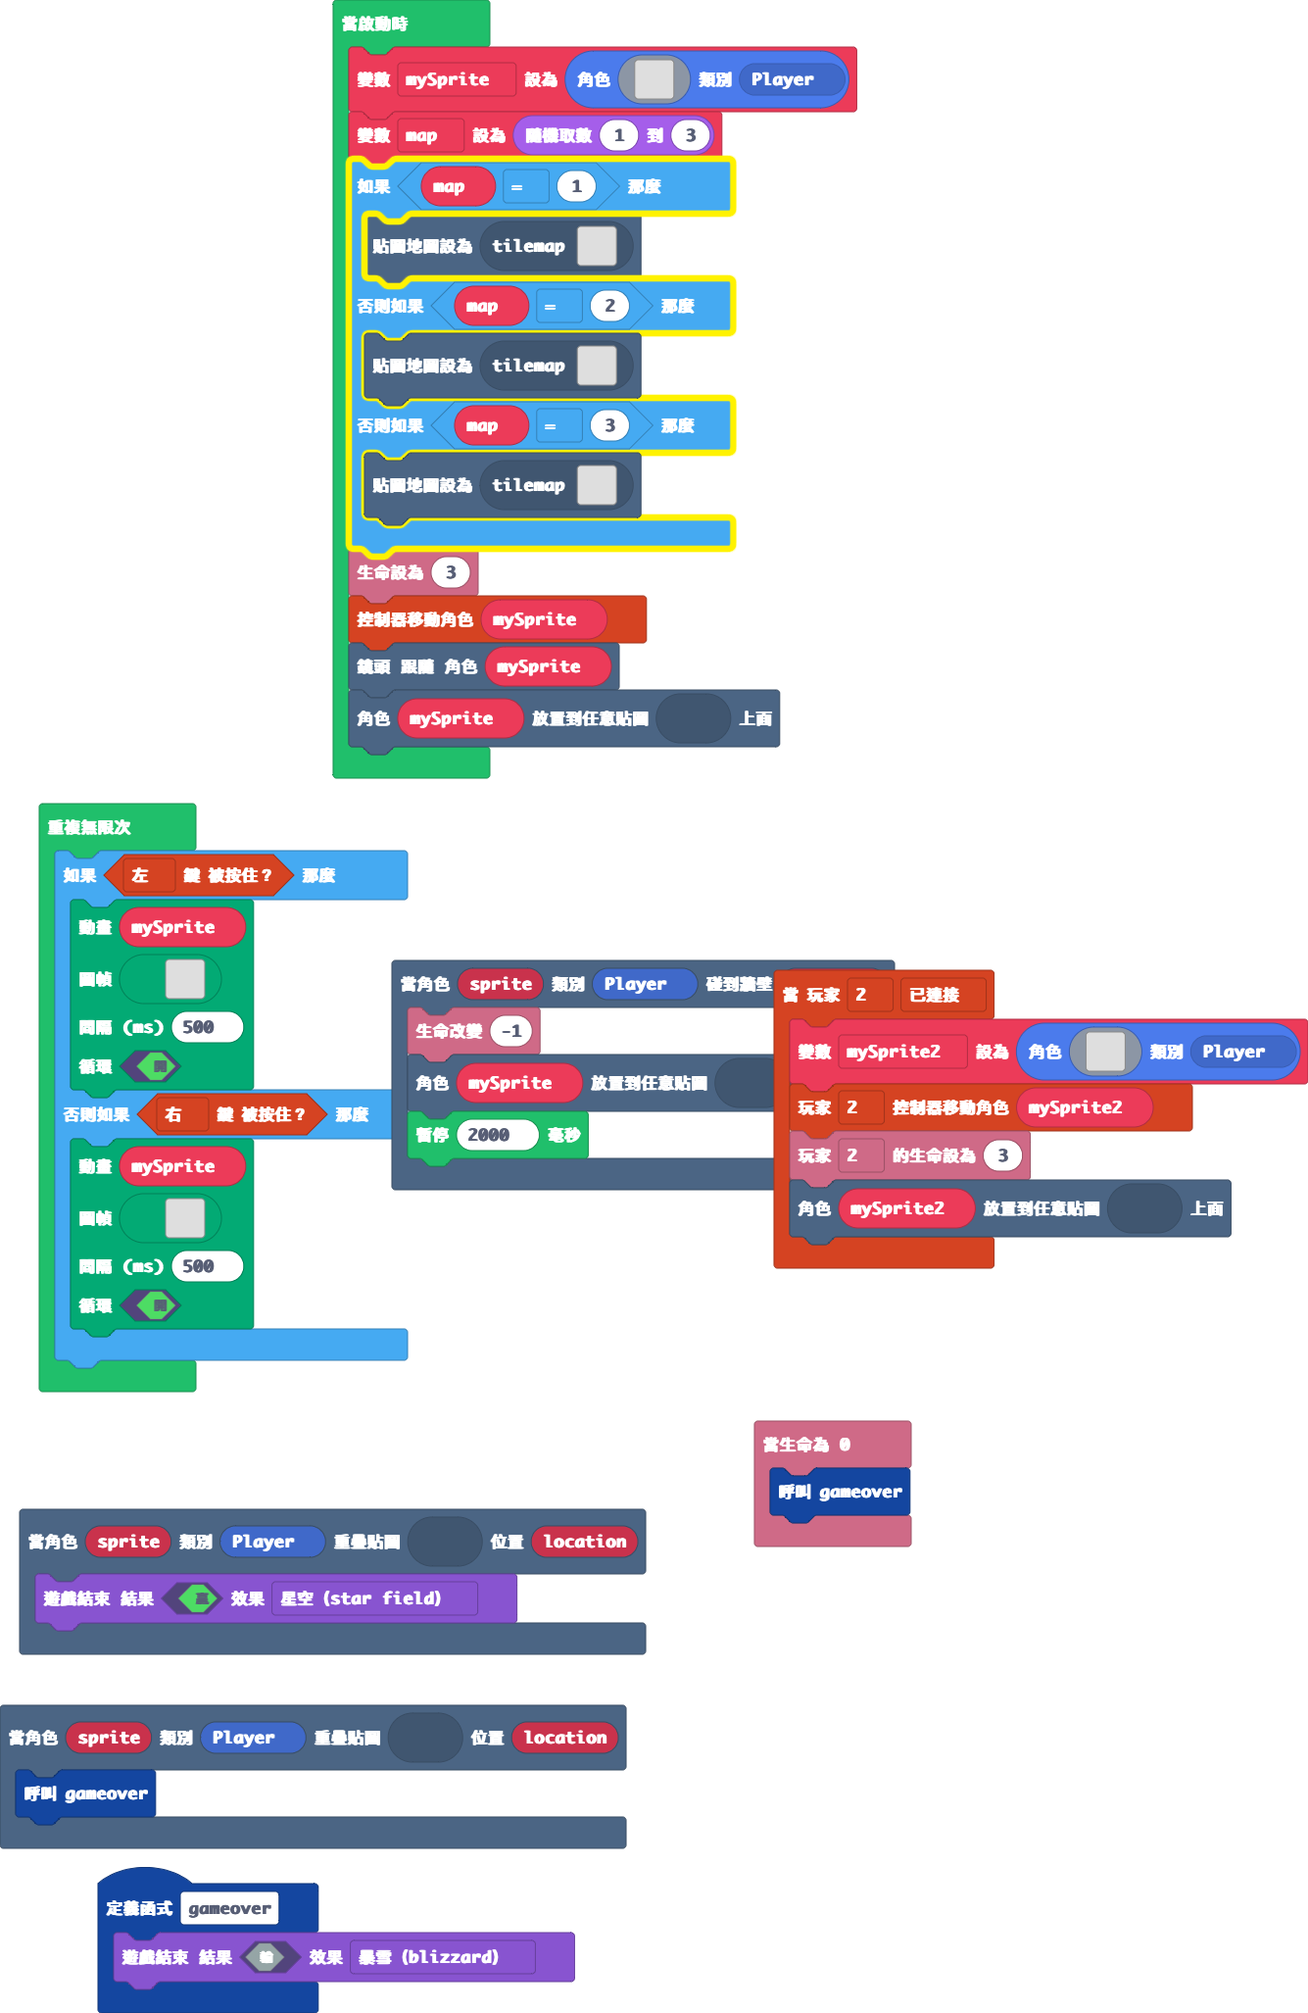
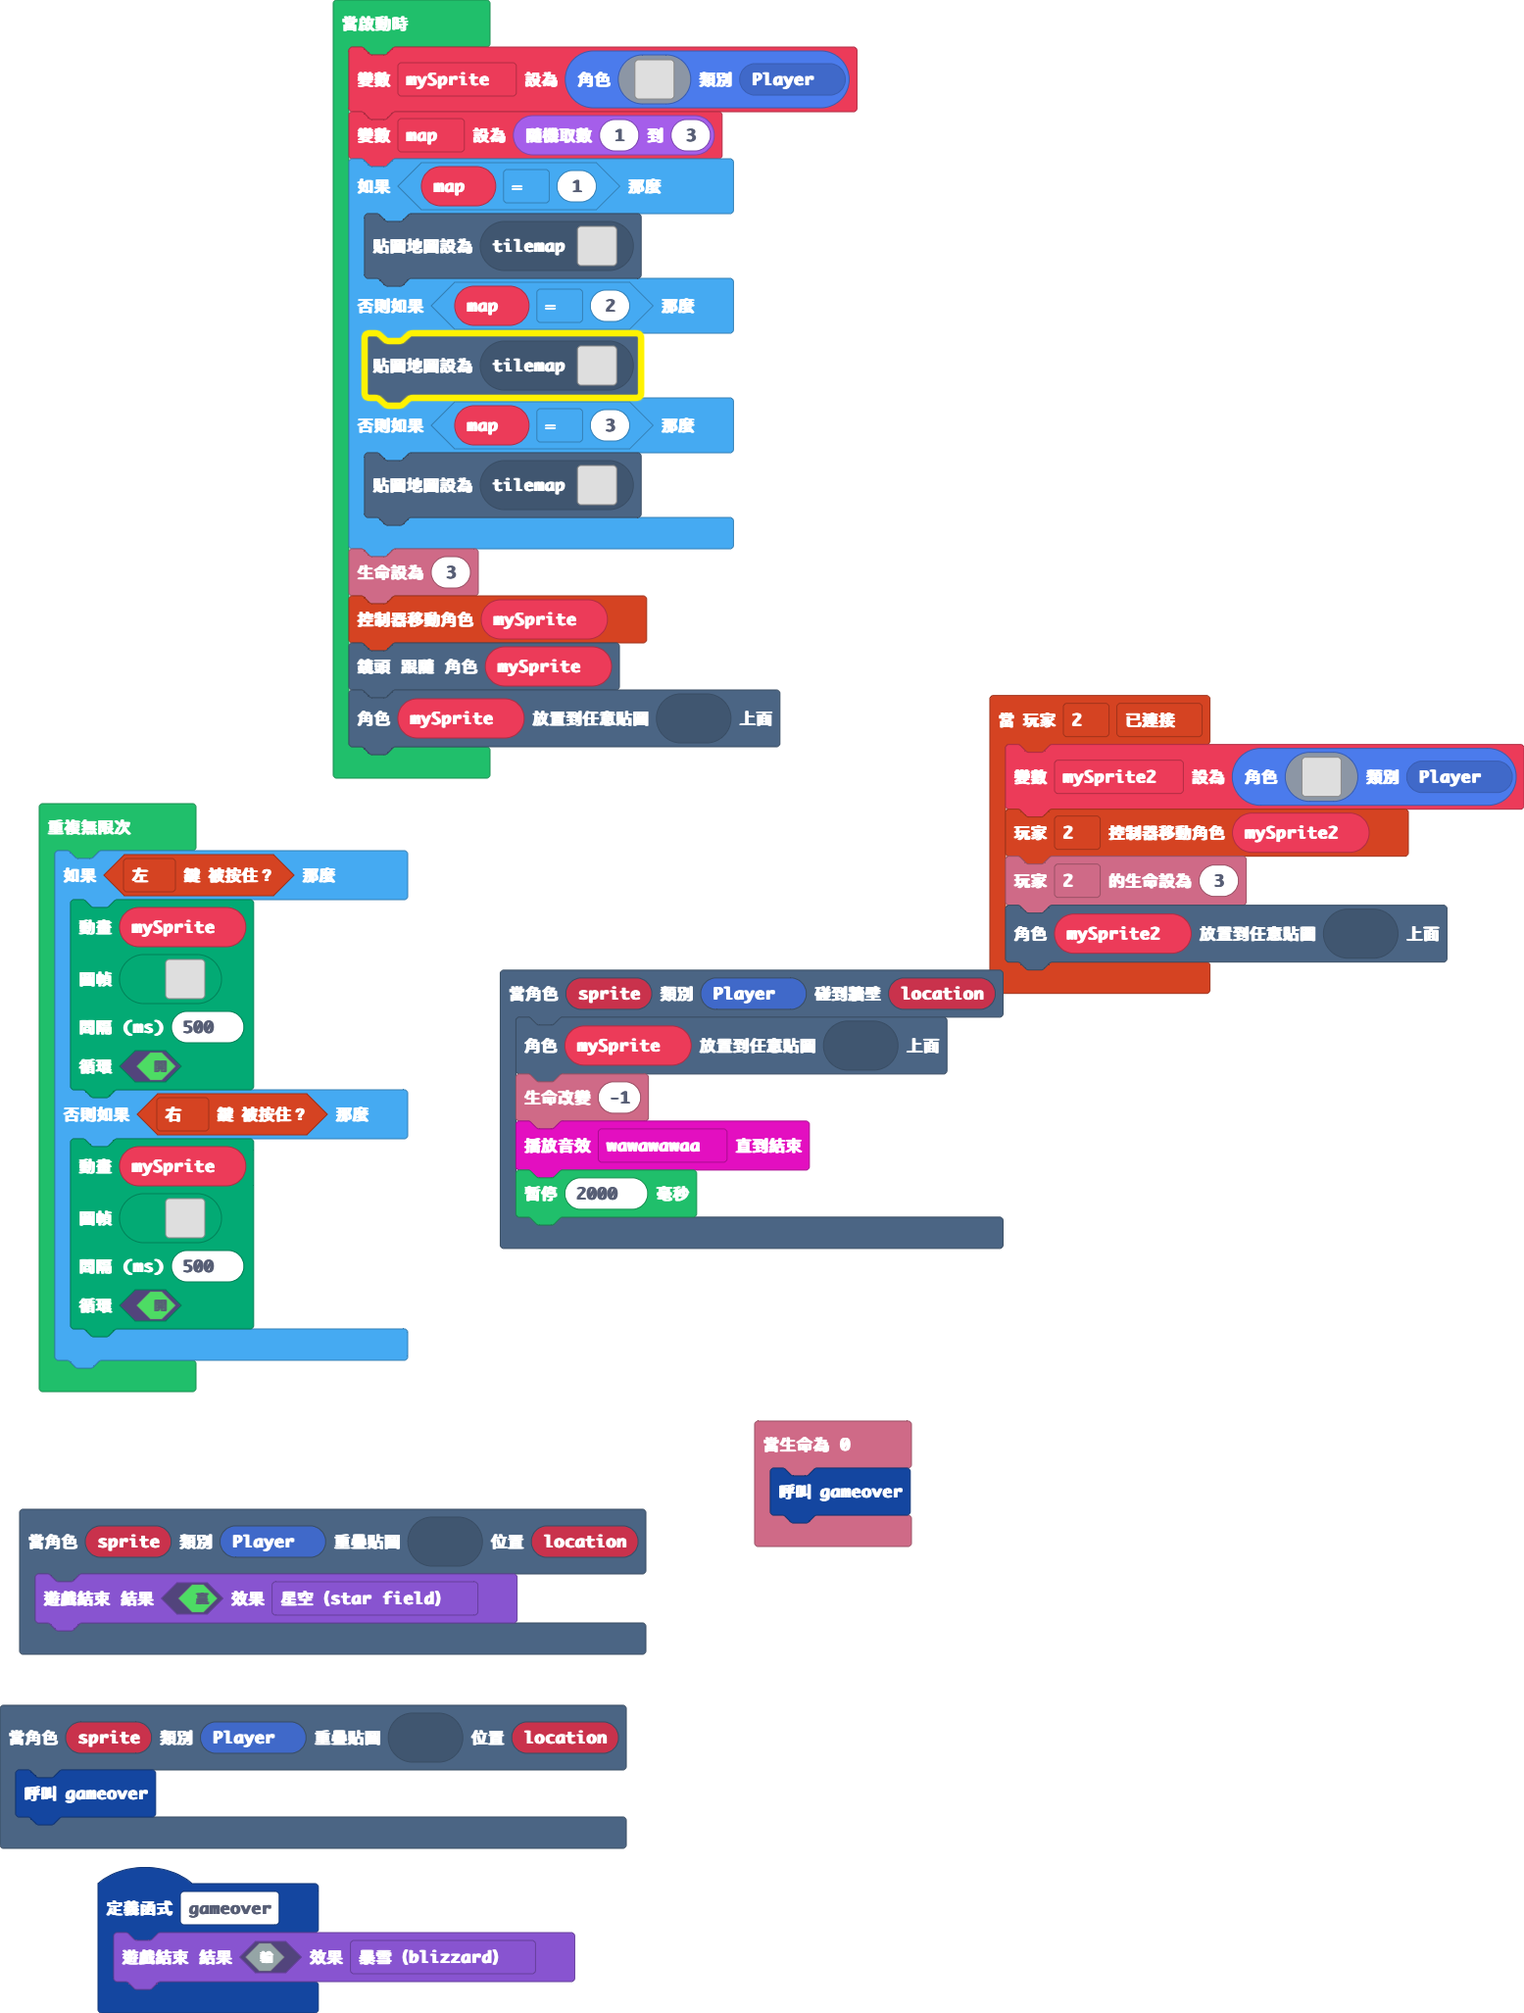
更新 main.blocks, main.ts, tilemap.g.jres, tilemap.g.ts

Changed region(s): [[0.0, 0.0, 1.0, 0.7167], [0.0, 0.6855, 0.7064, 1.0], [0.2457, 0.6543, 0.3071, 0.6855]]

diff --git a/tilemap.g.ts b/tilemap.g.ts
@@ -259,7 +259,7 @@ namespace myTiles {
 22222222222222222222222222222222
 `, [myTiles.transparency16,sprites.builtin.forestTiles0,myTiles.tile1,myTiles.tile3,myTiles.tile4,myTiles.tile5], TileScale.Sixteen);
             case "層級11":
-            case "層級11":return tiles.createTilemap(hex`4000400005050505050505050505050505050505050505050505050505050505050505050505050505050505050505050505050505050505050505050505050505050505050202020202020202020202020202020202020202020202020202020202020202020202020204020202020202020202020202020202020202020202020202050502020202020202020202020202020202020202020202020202020202020202020202020202040202020202020202020202020202020202020202020202020505020202020202020202020202020202020202020202020202020202020202020202020202020402020202020202020202020202020202020202020202020205050505050505050505050505050505050202020205050505050505050505050505050505050505050502020202020202020202020202020202020202020202050502020202020202020202020202020502020202050202020202020202020202020202020202020202020202020202020202020202020202020202020202020505020202020202020202020202020205020202020502020202020202020202020202020202020202020202020202020202020202020202020202020202020205050202020202020202020202020202050202020205020202020202020202020202020202020202020202020202020202020202020202020202020202020202050502020202020202020202020202020502020202050202020202020202020202020202020202020202020202020202020202020202020202020202020202020505020202020202020202020202020205020202020502020202020202020202020202020202020202020202020202020202020202020202020202020202020205050202020202020202020202020202050202020205020202020202020202020202020202020202020202020202020505050202020202020202020202020202050502020202020202020202020202020502020202050202020202020202020505050505050505050505050505050505020205050505050505050505020202020505020202020202020202020202020205020202020505050505050505050502020202020202020202020202020202020202020202020202020202050202020205050202020202020202020202020202020101010102020202020202020202020202020202020202020202020202020202020202020202020202020502020202050502020202020202020202020202020201010101020202020202020202020202020202020202020202020202020202020202020202020202020205020202020505020202020202020202020202020202010101010202020202020202020202020202020202020202020202020202020202020202020202020202050202020205050202020202020202020202020202020101010102020202020202020202020202020202020202020202020202020202020202020202050505050502020202050505050505050505050505050505050502020202050505050505050505050505050505050505050505050505050505050505050505050502020205050202020505020202020202020202020202020202050202020502020202020202020202020202020202020202020202020202020202020202020202020202020505050205050202020202020202020202020202020502020205020202020202020202020202020202020202020202020202020202020202020202020202020202020202050502020202020202020202020202020205020202050202020202020202020202020202020202020202020202020202020202020202020202020202020202020505020202020202020202020202020202020502020505020202020202020202020202020202020202020202020202020202020202020202020202020202020205050202020202020202020202020202020205020202050202020202020202020202020202020202020202020202020202020202020202020202020202020202050502020202020202020202020202020202050202020502020202020202020202020202020202020202020202020202020202020202020202020202020202020505020202020202020202020202020202020502020205050505050505050505050505050505050505050505050505050202020202020202020202020202020205050202020202020202020202020202020205020202050202020202020202020202020202020202020202020202020502020202020202020202020202020202050502020202020202020202020202020202050202020202050202020202020202020202020202020202020202020205020202020202020202020202020202020505020202020202020202020202020202020502020202050502020202020202020202020202020202020202020202050202020202020202020202020202020205050202020202020202020202020202020205020202020505020202020202020202020202020202020202020202020502020202020202020202020202020202050502020202020202020202020202020202050202020202050202020202020202020202020202020202020202020205020202020202020202020202020202020505020202020202020202020202020202020502020202020505020202020202020202020202020202020202020202050202020202020202020202020202020205050202020202020202020202020202020505020202020202050505050505050505050505050502020202020202020502020202020202020202020202020202050502020202020202020202020202020205020202020202020202020202020202020202020202050505050502020205020202020202020202020202020202020505020202020202020202020202020202050202020202020202020202020202020202020202020202020205050505050502020202020202050505050505050505050202020202020202020202020202020502020202020202020202020202020202020202020202020202020202050505050505050505050502020302020205050502020202020202020202020202020205020202020202020202020202020202020202020202020202020202020202020202020202020202020203020202020505020202020202020202020202020202050502020202020202020202020202020202020202020202020202020202020202020202020202020202030202020205050202020202020202020202020202020205020202020202020202020202020202020202020202020202020202020202020202020202020202020302020202050502020202020202020202020202020202050202020202020202020202020202020202020202020202020202020202020202020202020202020203020202020505020202020202020202020202020202020502020202020202020202020202020202020202020202020202020202020202020202020202020202030202020205050202020202020202020202020202020205020202020202020202020202020202020202020202020202020202020202020202020202020202020303020202050502020202020202020202020202020202050202020202020202020202020202020202020202020202020202020202020202020202020202020202030202020505020202020202020202020202020202020502020202020202020202020202020202020202020202020202020202020202020202020202020202020302020205050202020202020202020202020202020205020202020202020202020202020202020202020202020202020202020202020202020202020202020203020202050502020202020202020202020202020202050502020202020202020202020202020202020202020202020202020202020202020202020202020202030202020505020202020202020202020202020202020205020202020202020202020202020202020202020202020202020202020202020202020202020202020302020205050202020202020202020202020202020202050202020202020202020202020202020202020202020202020202020202020202020202020202020203020202050502020202020202020202020202020202020502020202020202020202020202020202020202020202020202020202020202020202020202020202030202020505020202020202020202020202020202020205020202020202020202020202020202020202020202020202020202020202020202020202020202020302020205050202020202020202020202020202020202020502020202020202020202020202020202020202020202020202020202020202020202020202020203020202050502020202020202020202020202020202020205020202020202020202020202020505050505050505050505050505050505050505050505020202030202020505020202020202020202020202020202020202050202020202020205050505050502020202020202020202020202020202020202020202020505050502020205050202020202020202020202020202020202020505050505050505020202020202020202020202020202020202020202020202020202020202020202020202050502020202020202020202020202020202020202020202020202020202020202020202020202020202020202020202020202020202020202020202020202020505020202020202020202020202020202020202020202020202020202020202020202020202020202020202020202020202020202020202020202020202020205050202020202020202020202020202020202020202020202020202020202020202020202020202020202020202020202020202020202020202020202020202050502020202020202020202020202020202020202020202020202020202020202020202020202020202020202020202020202020202020202020202020202020505020202020202020202020202020202020202020202020202020202020202020202020202020202020202020202020202020202020202020202020202020205050202020202020202020202020202020202020202020202020202020202020202020202020202020202020202020202020202020202020202020202020202050502020202020202020202020202020202020202020202020202020202020202020202020202020202020202020202020202020202020202020202020202020505020202020202020202020202020202020202020202020202020202020202020202020202020202020202020202020202020202020202020202020202020205050202020202020202020202020202020202020202020202020202020202020202020202020202020202020202020202020202020202020202020202020202050502020202020202020202020202020202020202020202020202020202020202020202020202020202020202020202020202020202020202020202020202020505050505050505050505050505050505050505050505050505050505050505050505050505050505050505050505050505050505050505050505050505050505`, img`
+            case "層級11":return tiles.createTilemap(hex`4000400005050505050505050505050505050505050505050505050505050505050505050505050505050505050505050505050505050505050505050505050505050505050202020202020202020202020202020202020202020202020202020202020202020202020204020202020202020202020202020202020202020202020202050502020202020202020202020202020202020202020202020202020202020202020202020202040202020202020202020202020202020202020202020202020505020202020202020202020202020202020202020202020202020202020202020202020202020402020202020202020202020202020202020202020202020205050505050505050505050505050505050202020205050505050505050505050505050505050505050502020202020202020202020202020202020202020202050502020202020202020202020202020502020202050202020202020202020202020202020202020202020202020202020202020202020202020202020202020505020202020202020202020202020205020202020502020202020202020202020202020202020202020202020202020202020202020202020202020202020205050202020202020202020202020202050202020205020202020202020202020202020202020202020202020202020202020202020202020202020202020202050502020202020202020202020202020502020202050202020202020202020202020202020202020202020202020202020202020202020202020202020202020505020202020202020202020202020205020202020502020202020202020202020202020202020202020202020202020202020202020202020202020202020205050202020202020202020202020202050202020205020202020202020202020202020202020202020202020202020505050202020202020202020202020202050502020202020202020202020202020502020202050202020202020202020505050505050505050505050505050505020205050505050505050505020202020505020202020202020202020202020205020202020505050505050505050502020202020202020202020202020202020202020202020202020202050202020205050202020202020202020202020202020202020202020202020202020202020202020202020202020202020202020202020202020202020202020502020202050502020202020202020202020202020202020202020202020202020202020202020202020202020202020202020202020202020202020202020205020202020505020202020202020202020202020202020101020202020202020202020202020202020202020202020202020202020202020202020202020202050202020205050202020202020202020202020202020202020202020202020202020202020202020202020202020202020202020202020202020202050505050502020202050505050505050505050505050505050502020202050505050505050505050505050505050505050505050505050505050505050505050502020205050202020505020202020202020202020202020202050202020502020202020202020202020202020202020202020202020202020202020202020202020202020505050205050202020202020202020202020202020502020205020202020202020202020202020202020202020202020202020202020202020202020202020202020202050502020202020202020202020202020205020202050202020202020202020202020202020202020202020202020202020202020202020202020202020202020505020202020202020202020202020202020502020505020202020202020202020202020202020202020202020202020202020202020202020202020202020205050202020202020202020202020202020205020202050202020202020202020202020202020202020202020202020202020202020202020202020202020202050502020202020202020202020202020202050202020502020202020202020202020202020202020202020202020202020202020202020202020202020202020505020202020202020202020202020202020502020205050505050505050505050505050505050505050505050505050202020202020202020202020202020205050202020202020202020202020202020205020202050202020202020202020202020202020202020202020202020502020202020202020202020202020202050502020202020202020202020202020202050202020202050202020202020202020202020202020202020202020205020202020202020202020202020202020505020202020202020202020202020202020502020202050502020202020202020202020202020202020202020202050202020202020202020202020202020205050202020202020202020202020202020205020202020505020202020202020202020202020202020202020202020502020202020202020202020202020202050502020202020202020202020202020202050202020202050202020202020202020202020202020202020202020205020202020202020202020202020202020505020202020202020202020202020202020502020202020505020202020202020202020202020202020202020202050202020202020202020202020202020205050202020202020202020202020202020505020202020202050505050505050505050505050502020202020202020502020202020202020202020202020202050502020202020202020202020202020205020202020202020202020202020202020202020202050505050502020205020202020202020202020202020202020505020202020202020202020202020202050202020202020202020202020202020202020202020202020205050505050502020202020202050505050505050505050202020202020202020202020202020502020202020202020202020202020202020202020202020202020202050505050505050505050502020302020205050502020202020202020202020202020205020202020202020202020202020202020202020202020202020202020202020202020202020202020203020202020505020202020202020202020202020202050502020202020202020202020202020202020202020202020202020202020202020202020202020202030202020205050202020202020202020202020202020205020202020202020202020202020202020202020202020202020202020202020202020202020202020302020202050502020202020202020202020202020202050202020202020202020202020202020202020202020202020202020202020202020202020202020203020202020505020202020202020202020202020202020502020202020202020202020202020202020202020202020202020202020202020202020202020202030202020205050202020202020202020202020202020205020202020202020202020202020202020202020202020202020202020202020202020202020202020303020202050502020202020202020202020202020202050202020202020202020202020202020202020202020202020202020202020202020202020202020202030202020505020202020202020202020202020202020502020202020202020202020202020202020202020202020202020202020202020202020202020202020302020205050202020202020202020202020202020205020202020202020202020202020202020202020202020202020202020202020202020202020202020203020202050502020202020202020202020202020202050502020202020202020202020202020202020202020202020202020202020202020202020202020202030202020505020202020202020202020202020202020205020202020202020202020202020202020202020202020202020202020202020202020202020202020302020205050202020202020202020202020202020202050202020202020202020202020202020202020202020202020202020202020202020202020202020203020202050502020202020202020202020202020202020502020202020202020202020202020202020202020202020202020202020202020202020202020202030202020505020202020202020202020202020202020205020202020202020202020202020202020202020202020202020202020202020202020202020202020302020205050202020202020202020202020202020202020502020202020202020202020202020202020202020202020202020202020202020202020202020203020202050502020202020202020202020202020202020205020202020202020202020202020505050505050505050505050505050505050505050505020202030202020505020202020202020202020202020202020202050202020202020205050505050502020202020202020202020202020202020202020202020505050502020205050202020202020202020202020202020202020505050505050505020202020202020202020202020202020202020202020202020202020202020202020202050502020202020202020202020202020202020202020202020202020202020202020202020202020202020202020202020202020202020202020202020202020505020202020202020202020202020202020202020202020202020202020202020202020202020202020202020202020202020202020202020202020202020205050202020202020202020202020202020202020202020202020202020202020202020202020202020202020202020202020202020202020202020202020202050502020202020202020202020202020202020202020202020202020202020202020202020202020202020202020202020202020202020202020202020202020505020202020202020202020202020202020202020202020202020202020202020202020202020202020202020202020202020202020202020202020202020205050202020202020202020202020202020202020202020202020202020202020202020202020202020202020202020202020202020202020202020202020202050502020202020202020202020202020202020202020202020202020202020202020202020202020202020202020202020202020202020202020202020202020505020202020202020202020202020202020202020202020202020202020202020202020202020202020202020202020202020202020202020202020202020205050202020202020202020202020202020202020202020202020202020202020202020202020202020202020202020202020202020202020202020202020202050502020202020202020202020202020202020202020202020202020202020202020202020202020202020202020202020202020202020202020202020202020505050505050505050505050505050505050505050505050505050505050505050505050505050505050505050505050505050505050505050505050505050505`, img`
 2222222222222222222222222222222222222222222222222222222222222222
 2..............................................................2
 2..............................................................2

diff --git a/main.ts b/main.ts
@@ -1,6 +1,7 @@
 scene.onHitWall(SpriteKind.Player, function (sprite, location) {
-    info.changeLifeBy(-1)
     tiles.placeOnRandomTile(mySprite, assets.tile`我的貼圖`)
+    info.changeLifeBy(-1)
+    music.wawawawaa.playUntilDone()
     pause(2000)
 })
 scene.onOverlapTile(SpriteKind.Player, assets.tile`我的貼圖2`, function (sprite, location) {
